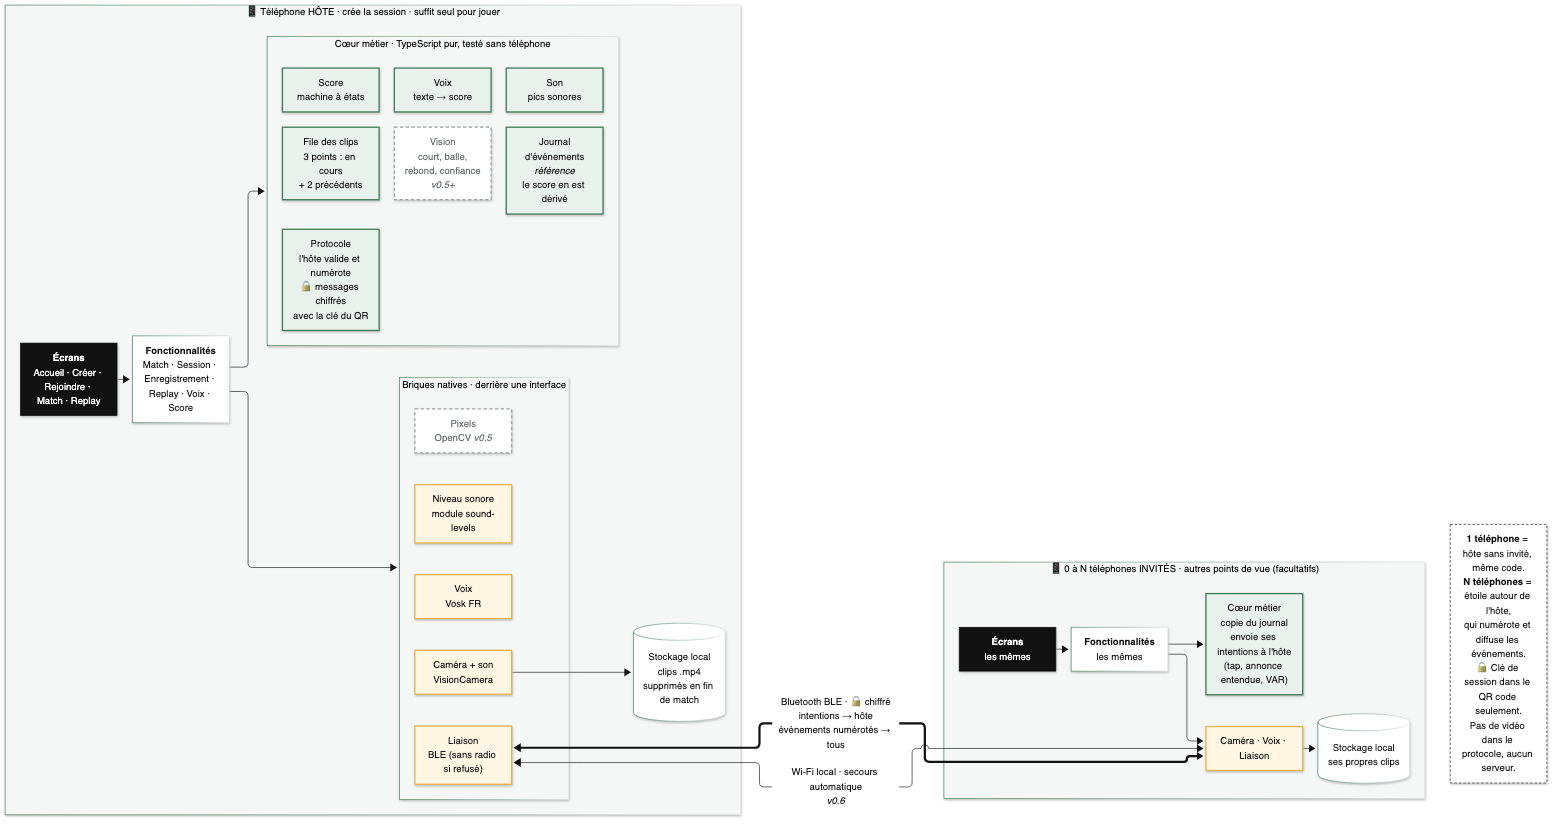
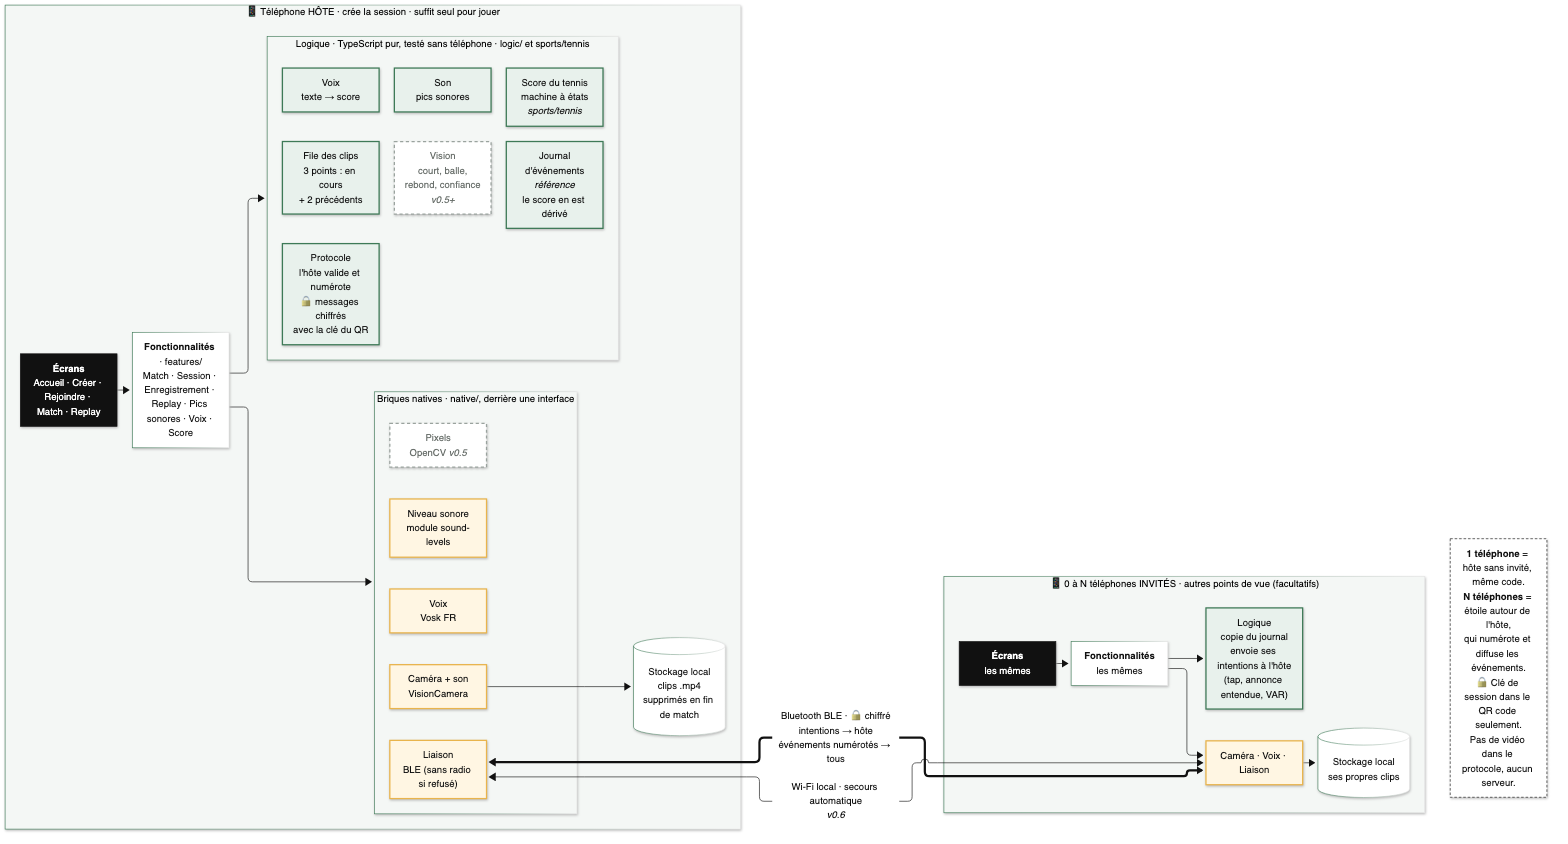
chore(lint): enforce feature boundaries; docs: describe the feature-based structure
ESLint now enforces the structure: imports run app → features → sports → shared, logic/, sports/ and
shared/lib/ stay pure TypeScript, features and sports are entered through their index.ts, no import
cycle, sorted imports. CLAUDE.md describes the folders, how to add a feature or a sport, and who
calls whom on a tap; the architecture diagram names the new folders.

diff --git a/eslint.config.js b/eslint.config.js
@@ -3,6 +3,40 @@ const { defineConfig } = require('eslint/config');
 const expoConfig = require('eslint-config-expo/flat');
 const prettierConfig = require('eslint-config-prettier/flat');
 
+/** Imports run one way: app → features → sports → shared. */
+const NO_DEEP_IMPORT = {
+  group: ['@/features/*/*', '@/sports/*/*'],
+  message: 'Enter a feature or a sport through its index.ts: @/features/<name>, @/sports/<name>.',
+};
+const NO_APP = {
+  group: ['@/app', '@/app/*'],
+  message: 'Nothing imports a route: app/ is at the top.',
+};
+const PURE = {
+  group: [
+    'react',
+    'react-*',
+    'react-native',
+    'react-native-*',
+    'expo',
+    'expo-*',
+    '@expo/*',
+    '@react-native/*',
+  ],
+  message:
+    'Pure TypeScript here (logic/, sports/, shared/lib/): no React, React Native, Expo or native module, so it runs without a phone.',
+};
+const SPORT_DEPENDS_ON_NOTHING = {
+  group: ['@/features', '@/features/*', '@/app', '@/app/*', '@/shared/ui/*', '@/shared/native/*'],
+  message: 'A sport is its rules only: it depends on no feature, no screen, no native code.',
+};
+const SHARED_KNOWS_NO_BUSINESS = {
+  group: ['@/features', '@/features/*', '@/sports', '@/sports/*', '@/app', '@/app/*'],
+  message: 'shared/ knows no feature and no sport.',
+};
+
+const restrict = (...patterns) => ({ 'no-restricted-imports': ['error', { patterns }] });
+
 module.exports = defineConfig([
   expoConfig,
   prettierConfig,
@@ -10,34 +44,26 @@ module.exports = defineConfig([
     ignores: ['dist/*', 'ios/*', 'android/*'],
   },
   {
-    // The core is plain TypeScript: it must run in Jest without a phone.
-    files: ['src/core/**'],
+    files: ['src/**'],
     rules: {
-      'no-restricted-imports': [
+      ...restrict(NO_DEEP_IMPORT),
+      'import/no-cycle': 'error',
+      'import/order': [
         'error',
         {
-          patterns: [
-            {
-              group: [
-                'react',
-                'react-*',
-                'react-native',
-                'react-native-*',
-                'expo',
-                'expo-*',
-                '@expo/*',
-                '@react-native/*',
-              ],
-              message:
-                'src/core is pure TypeScript: no React, React Native, Expo or native module.',
-            },
-            {
-              group: ['@/app/*', '@/ui/*', '@/features/*', '@/adapters/*'],
-              message: 'src/core must not depend on the layers above it.',
-            },
-          ],
+          groups: [['builtin', 'external'], 'internal', ['parent', 'sibling', 'index']],
+          pathGroups: [{ pattern: '@/**', group: 'internal' }],
+          pathGroupsExcludedImportTypes: ['builtin'],
+          'newlines-between': 'always',
+          alphabetize: { order: 'asc', caseInsensitive: true },
         },
       ],
     },
   },
+  // Later blocks replace the patterns of earlier ones for their files: each lists all it needs.
+  { files: ['src/features/**'], rules: restrict(NO_DEEP_IMPORT, NO_APP) },
+  { files: ['src/features/*/logic/**'], rules: restrict(NO_DEEP_IMPORT, NO_APP, PURE) },
+  { files: ['src/sports/**'], rules: restrict(NO_DEEP_IMPORT, PURE, SPORT_DEPENDS_ON_NOTHING) },
+  { files: ['src/shared/**'], rules: restrict(SHARED_KNOWS_NO_BUSINESS) },
+  { files: ['src/shared/lib/**'], rules: restrict(SHARED_KNOWS_NO_BUSINESS, PURE) },
 ]);

diff --git a/src/features/session/useHostSession.ts b/src/features/session/useHostSession.ts
@@ -1,17 +1,17 @@
 import { useCallback, useEffect, useMemo, useRef, useState } from 'react';
 
+import { randomBytes } from '@/shared/native/random';
+import { type SetupForm, toMatchSetup } from '@/sports/tennis';
+
+import { HostLog } from './logic/hostLog';
+import { decodeSessionKey } from './logic/joinLink';
+import { type LoggedEvent, type MatchEvent, replayLog } from './logic/matchLog';
+import type { GuestMessage, HostMessage } from './logic/messages';
+import { SealedCodec } from './logic/SealedCodec';
 import { BleHost } from './native/ble/BleHost';
 import { LocalHost } from './native/LocalTransport';
 import type { HostTransport, LinkStatus } from './native/Transport';
-import { type LoggedEvent, type MatchEvent, replayLog } from './logic/matchLog';
-import { randomBytes } from '@/shared/native/random';
-import { HostLog } from './logic/hostLog';
-import { decodeSessionKey } from './logic/joinLink';
-import type { GuestMessage, HostMessage } from './logic/messages';
-import { SealedCodec } from './logic/SealedCodec';
-
 import type { Session } from './Session';
-import { type SetupForm, toMatchSetup } from '@/sports/tennis';
 
 /**
  * The host keeps the log (HostLog) and sends every new event to its guests. Works with no guest

diff --git a/src/features/match/ui/MatchScreen.tsx b/src/features/match/ui/MatchScreen.tsx
@@ -5,26 +5,26 @@ import { Alert, StyleSheet, Text, View } from 'react-native';
 import { SafeAreaView } from 'react-native-safe-area-context';
 
 import {
-  decodeForm,
-  InviteOverlay,
-  linkLabel,
-  type MatchView,
-  type Session,
-} from '@/features/session';
-import { outcomeEvents, ReplayScreen, useVarReplay } from '@/features/replay';
-import { sideName, toMatchSetup } from '@/sports/tennis';
-import {
   TARGET_FPS,
   useAppActive,
   useClipRecorder,
   useClipsFromLog,
   useMatchCamera,
 } from '@/features/recording';
+import { outcomeEvents, ReplayScreen, useVarReplay } from '@/features/replay';
 import { ScoreDisplay } from '@/features/score';
+import {
+  decodeForm,
+  InviteOverlay,
+  linkLabel,
+  type MatchView,
+  type Session,
+} from '@/features/session';
 import { heardLine, useVoice } from '@/features/voice';
 import { Button } from '@/shared/ui/Button';
 import { MessageScreen } from '@/shared/ui/MessageScreen';
 import { colors } from '@/shared/ui/theme';
+import { sideName, toMatchSetup } from '@/sports/tennis';
 
 import { MatchControls, type MatchTab } from './MatchControls';
 import { MatchSidebar } from './MatchSidebar';

diff --git a/src/features/session/useGuestSession.ts b/src/features/session/useGuestSession.ts
@@ -1,16 +1,16 @@
 import { useCallback, useEffect, useMemo, useRef, useState } from 'react';
 
-import { BleGuest } from './native/ble/BleGuest';
-import type { GuestTransport, LinkStatus } from './native/Transport';
-import { type LoggedEvent, type MatchEvent, replayLog } from './logic/matchLog';
 import { randomBytes } from '@/shared/native/random';
+import { type SetupForm, toMatchSetup } from '@/sports/tennis';
+
 import { receiveEvent, receiveSnapshot } from './logic/guestLog';
 import { decodeSessionKey } from './logic/joinLink';
+import { type LoggedEvent, type MatchEvent, replayLog } from './logic/matchLog';
 import type { GuestMessage, HostMessage } from './logic/messages';
 import { SealedCodec } from './logic/SealedCodec';
-
+import { BleGuest } from './native/ble/BleGuest';
+import type { GuestTransport, LinkStatus } from './native/Transport';
 import type { Session } from './Session';
-import { type SetupForm, toMatchSetup } from '@/sports/tennis';
 
 /**
  * A guest mirrors the host's log. Its actions are sent to the host as intents and only count

diff --git a/src/features/session/ui/CreateSessionScreen.tsx b/src/features/session/ui/CreateSessionScreen.tsx
@@ -3,11 +3,12 @@ import { useState } from 'react';
 import { Pressable, ScrollView, StyleSheet, Text, TextInput, View } from 'react-native';
 import { SafeAreaView } from 'react-native-safe-area-context';
 
-import { newSession } from '../newSession';
-import { encodeForm } from '../setup';
-import { DEFAULT_FORM, type SetupForm } from '@/sports/tennis';
 import { Button } from '@/shared/ui/Button';
 import { colors, radius, touch } from '@/shared/ui/theme';
+import { DEFAULT_FORM, type SetupForm } from '@/sports/tennis';
+
+import { newSession } from '../newSession';
+import { encodeForm } from '../setup';
 
 /** One screen, everything prefilled: the first point is filmed in under a minute. */
 export function CreateSessionScreen() {

diff --git a/src/features/match/ui/MatchSidebar.tsx b/src/features/match/ui/MatchSidebar.tsx
@@ -1,13 +1,13 @@
 import { StyleSheet, Text, View } from 'react-native';
 import { Camera, type CameraDevice, type CameraSessionConfig } from 'react-native-vision-camera';
 
+import { type MatchCamera, TARGET_FPS } from '@/features/recording';
 import { VOICE_LABEL, type VoiceStatus } from '@/features/voice';
 import { IconButton } from '@/shared/ui/IconButton';
 import { TabButton } from '@/shared/ui/TabButton';
 import { colors, radius } from '@/shared/ui/theme';
 
 import type { MatchTab } from './MatchControls';
-import { type MatchCamera, TARGET_FPS } from '@/features/recording';
 
 /**
  * The left column: the camera preview, what the phone is doing (recording, link, voice), the

diff --git a/src/features/replay/ui/ClipPlayer.tsx b/src/features/replay/ui/ClipPlayer.tsx
@@ -3,9 +3,9 @@ import { Pressable, StyleSheet, Text, View } from 'react-native';
 import { SafeAreaView } from 'react-native-safe-area-context';
 import Video, { type VideoRef } from 'react-native-video';
 
-import { toUri } from '@/shared/native/files';
-import { stopBeforePeak, useSoundPeaks } from '@/features/sound-peaks';
 import { buildTimeline, locate, type Segment } from '@/features/recording';
+import { stopBeforePeak, useSoundPeaks } from '@/features/sound-peaks';
+import { toUri } from '@/shared/native/files';
 import { colors, radius, touch } from '@/shared/ui/theme';
 import { ZoomableView } from '@/shared/ui/ZoomableView';
 

diff --git a/src/features/replay/ui/ReplayScreen.tsx b/src/features/replay/ui/ReplayScreen.tsx
@@ -3,12 +3,11 @@ import { StyleSheet, Text, View } from 'react-native';
 
 import { colors } from '@/shared/ui/theme';
 
-import type { ReplayOutcome } from '../logic/outcome';
-import type { ReplayClip } from '../logic/toReplayClips';
-
 import { ClipPlayer } from './ClipPlayer';
 import { OutcomeBar, type Side } from './OutcomeBar';
 import { NavButton } from './ReplayButtons';
+import type { ReplayOutcome } from '../logic/outcome';
+import type { ReplayClip } from '../logic/toReplayClips';
 
 type Props = {
   /** Oldest first: "◀" goes back in time. */

diff --git a/src/features/recording/ClipRecorder.ts b/src/features/recording/ClipRecorder.ts
@@ -1,9 +1,10 @@
 import type { CameraVideoOutput } from 'react-native-vision-camera';
 
-import { MAX_POINT_SECONDS, SegmentRecorder } from './native/SegmentRecorder';
 import { deleteFile } from '@/shared/native/files';
+
 import { type Clip, ClipQueue, type PointSnapshot } from './logic/ClipQueue';
 import type { Segment } from './logic/Segment';
+import { MAX_POINT_SECONDS, SegmentRecorder } from './native/SegmentRecorder';
 
 /** Finished points kept on disk, on top of the point being recorded: 3 points in all. */
 export const MAX_SAVED_POINTS = 2;

diff --git a/src/features/match/ui/MatchControls.tsx b/src/features/match/ui/MatchControls.tsx
@@ -1,10 +1,10 @@
 import { Alert, StyleSheet } from 'react-native';
 
-import type { MatchEvent, MatchView } from '@/features/session';
-import { type SideId, sideName } from '@/sports/tennis';
 import { PendingBanner } from '@/features/score';
+import type { MatchEvent, MatchView } from '@/features/session';
 import { Button } from '@/shared/ui/Button';
 import { touch } from '@/shared/ui/theme';
+import { type SideId, sideName } from '@/sports/tennis';
 
 export type MatchTab = 'score' | 'training';
 

diff --git a/src/features/sound-peaks/useSoundPeaks.ts b/src/features/sound-peaks/useSoundPeaks.ts
@@ -1,8 +1,9 @@
 import { useEffect, useState } from 'react';
 
-import { readSoundLevels } from './native/readSoundLevels';
-import { findSoundPeaks, LEVEL_WINDOW_MS } from './logic/soundPeaks';
 import type { Timeline } from '@/features/recording';
+
+import { findSoundPeaks, LEVEL_WINDOW_MS } from './logic/soundPeaks';
+import { readSoundLevels } from './native/readSoundLevels';
 
 /**
  * The sound peaks of the point on screen, on its replay timeline. Read when the replay opens, for

diff --git a/src/features/match/ui/TrainingPanel.tsx b/src/features/match/ui/TrainingPanel.tsx
@@ -1,9 +1,9 @@
 import { ScrollView, StyleSheet, Text, View } from 'react-native';
 
-import type { MatchState } from '@/sports/tennis';
 import type { ClipStats } from '@/features/recording';
 import { Scoreboard } from '@/features/score';
 import { colors, radius } from '@/shared/ui/theme';
+import type { MatchState } from '@/sports/tennis';
 
 /** The training tab: the full scoreboard and what the phone measures (fps, files, events). */
 export function TrainingPanel({
